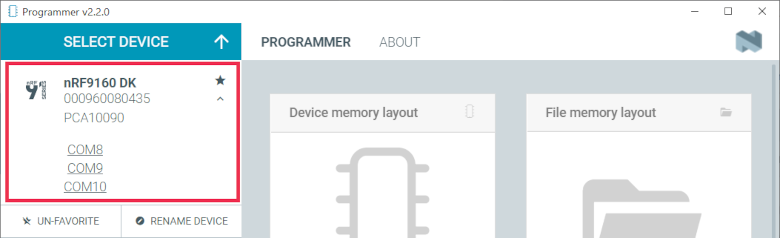
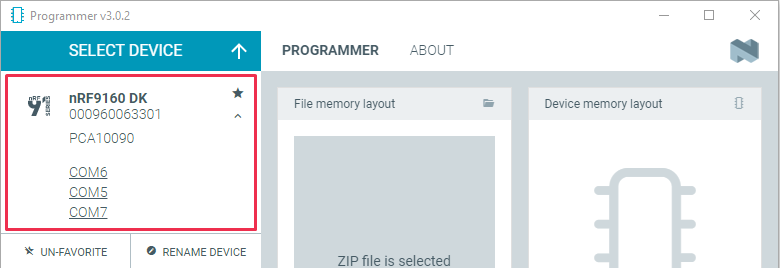
doc: update modem firmware before application firmware for nRF9160 DK
Updating modem firmware erases application firmware, so it is
better to have the instructions for updating modem firmware
before the instructions for updating application firmware.

Also updated Programmer screenshots to latest version of Programmer.

diff --git a/doc/nrf/ug_nrf9160_gs.rst b/doc/nrf/ug_nrf9160_gs.rst
@@ -8,7 +8,7 @@ Getting started with nRF9160 DK
    :depth: 2
 
 This section will get you started with your nRF9160 DK.
-You will update the firmware (both the application firmware and the modem firmware) and the nRF Cloud certificates of the DK, and conduct some initial tests.
+You will update the firmware (both the modem firmware and the application firmware) and the nRF Cloud certificates of the DK, and conduct some initial tests.
 
 If you have already set up your nRF9160 DK and want to learn more, see the following documentation:
 
@@ -76,59 +76,6 @@ Modem firmware
   The zip is named :file:`mfwnrf9160_` followed by the firmware version number.
   Do not unzip this file.
 
-.. _nrf9160_gs_updating_fw_application:
-
-Updating the application firmware
-=================================
-
-To update the application firmware, complete the following steps.
-If you experience any problems during the process, restart the Programmer app by pressing ``Ctrl+R`` (``command+R`` in macOS), and try again.
-
-1. Open the Programmer app.
-#. Make sure the **PROG/DEBUG SW10** switch on the nRF9160 DK is set to **nRF91**.
-   On DK v0.9.0 and earlier, this is the **SW5** switch.
-#. Connect the nRF9160 DK to the computer with a micro-USB cable, and then turn the DK on.
-#. Click :guilabel:`Select device` and select the DK from the drop-down list.
-   You can identify the nRF9160 DK by the fact that it has three COM ports when you expand its entry.
-
-   .. figure:: /images/programmer_com_ports.png
-      :alt: Programmer - COM ports
-
-      Programmer - COM ports
-
-   If the three COM ports are not visible, press ``Ctrl+R`` in Windows or ``command+R`` in macOS to restart the Programmer application.
-
-   The button text changes to the type of the selected device, with the SEGGER ID below the name.
-   The :guilabel:`Device Memory Layout` section also changes its name to the device name, and indicates that the device is connected.
-   If the :guilabel:`Auto read memory` option is selected in the :guilabel:`Device` section, the memory layout will update.
-   If it is not selected and you wish to see the memory layout, click :guilabel:`Read` in the :guilabel:`Device` section.
-
-#. Click :guilabel:`Add file` in the :guilabel:`File` section, and select :guilabel:`Browse`.
-
-   .. figure:: /images/programmer_addfile_nrf9160dk.png
-      :alt: Programmer - Add file
-
-      Programmer - Add file
-
-#. Navigate to where you extracted the firmware, and then to the :file:`img_app_bl` folder there.
-#. Select either :file:`nrf9160dk_asset_tracker_v2_ltem_<version-number>.hex` (LTE-M mode) or :file:`nrf9160dk_asset_tracker_v2_nbiot_<version-number>.hex` (NB-IoT mode), depending on where you are located.
-   Check with your SIM card provider for the mode supported at your location.
-   If you are using the iBasis SIM card provided with the DK, you can see `iBasis IoT network coverage`_ .
-   You can use either mode if your location has support for both.
-
-   For NB-IoT, there is a second variant of the firmware in the :file:`nrf9160dk_asset_tracker_v2_nbiot_legacy_pco_<version-number>.hex` file.
-   Only use this legacy variant if your network does not support ePCO.
-
-#. Click the :guilabel:`Erase & write` button in the :guilabel:`Device` section to program the DK.
-   Do not unplug or turn off the DK during this process.
-
-   .. figure:: /images/programmer_erasewrite_nrf9160dk.png
-      :alt: Programmer - Erase & write
-
-      Programmer - Erase & write
-
-If you continue to updating the modem firmware, you can go directly to Step 5.
-
 .. _nrf9160_gs_updating_fw_modem:
 
 Updating the modem firmware
@@ -136,6 +83,10 @@ Updating the modem firmware
 
 To update the modem firmware, complete the following steps.
 If you experience any problems during the process, restart the Programmer app by pressing ``Ctrl+R`` (``command+R`` on macOS), and try again.
+
+.. note::
+
+   Updating the modem firmware erases the contents of the flash memory, so the application must be programmed again to the nRF9160 DK.
 
 1. Open the Programmer app.
 #. Make sure the **PROG/DEBUG SW10** switch on the nRF9160 DK is set to **nRF91**.
@@ -182,12 +133,62 @@ If you experience any problems during the process, restart the Programmer app by
    Do not unplug or turn off the device during this process.
 
 When the update is complete, you see a success message.
+If you update the application firmware now, you can go directly to Step 5 of :ref:`nrf9160_gs_updating_fw_application`.
 
 .. note::
 
    If you experience problems updating the modem firmware, click :guilabel:`Erase all` in the :guilabel:`Device` section of the side panel and try updating again.
 
-   Doing this erases the contents of the flash memory, so the application must be programmed again to the DK.
+.. _nrf9160_gs_updating_fw_application:
+
+Updating the application firmware
+=================================
+
+To update the application firmware, complete the following steps.
+If you experience any problems during the process, restart the Programmer app by pressing ``Ctrl+R`` (``command+R`` in macOS), and try again.
+
+1. Open the Programmer app.
+#. Make sure the **PROG/DEBUG SW10** switch on the nRF9160 DK is set to **nRF91**.
+   On DK v0.9.0 and earlier, this is the **SW5** switch.
+#. Connect the nRF9160 DK to the computer with a micro-USB cable, and then turn the DK on.
+#. Click :guilabel:`Select device` and select the DK from the drop-down list.
+   You can identify the nRF9160 DK by the fact that it has three COM ports when you expand its entry.
+
+   .. figure:: /images/programmer_com_ports.png
+      :alt: Programmer - COM ports
+
+      Programmer - COM ports
+
+   If the three COM ports are not visible, press ``Ctrl+R`` in Windows or ``command+R`` in macOS to restart the Programmer application.
+
+   The drop-down text changes to the type of the selected device, with its SEGGER ID below the name.
+   The :guilabel:`Device Memory Layout` section also changes its name to the device name, and indicates that the device is connected.
+   If the :guilabel:`Auto read memory` option is selected in the :guilabel:`Device` section, the memory layout will update.
+   If it is not selected and you wish to see the memory layout, click :guilabel:`Read` in the :guilabel:`Device` section.
+
+#. Click :guilabel:`Add file` in the :guilabel:`File` section, and select :guilabel:`Browse`.
+
+   .. figure:: /images/programmer_addfile_nrf9160dk.png
+      :alt: Programmer - Add file
+
+      Programmer - Add file
+
+#. Navigate to where you extracted the firmware, and then to the :file:`img_app_bl` folder there.
+#. Select either :file:`nrf9160dk_asset_tracker_v2_ltem_<version-number>.hex` (LTE-M mode) or :file:`nrf9160dk_asset_tracker_v2_nbiot_<version-number>.hex` (NB-IoT mode), depending on where you are located.
+   Check with your SIM card provider for the mode supported at your location.
+   If you are using the iBasis SIM card provided with the DK, you can see `iBasis IoT network coverage`_ .
+   You can use either mode if your location has support for both.
+
+   For NB-IoT, there is a second variant of the firmware in the :file:`nrf9160dk_asset_tracker_v2_nbiot_legacy_pco_<version-number>.hex` file.
+   Only use this legacy variant if your network does not support ePCO.
+
+#. Click the :guilabel:`Erase & write` button in the :guilabel:`Device` section to program the DK.
+   Do not unplug or turn off the DK during this process.
+
+   .. figure:: /images/programmer_erasewrite_nrf9160dk.png
+      :alt: Programmer - Erase & write
+
+      Programmer - Erase & write
 
 .. _nrf9160_gs_connecting_dk_to_cloud:
 

diff --git a/doc/nrf/releases/release-notes-changelog.rst b/doc/nrf/releases/release-notes-changelog.rst
@@ -386,16 +386,17 @@ Documentation
 
 * Added:
 
-* Added documentation page for the :ref:`lib_flash_map_pm` library.
-* :ref:`ug_thread_prebuilt_libs` as a separate page instead of being part of :ref:`ug_thread_configuring`.
+  * Added documentation page for the :ref:`lib_flash_map_pm` library.
+  * :ref:`ug_thread_prebuilt_libs` as a separate page instead of being part of :ref:`ug_thread_configuring`.
 
 * Updated:
 
-* :ref:`ug_thread_configuring` to better indicate what is required and what is optional.
-  Also added further clarifications to the page to make everything more clear.
+  * :ref:`ug_thread_configuring` to better indicate what is required and what is optional.
+    Also added further clarifications to the page to make everything more clear.
+  * :ref:`ug_nrf9160_gs` by moving :ref:`nrf9160_gs_updating_fw_modem` before :ref:`nrf9160_gs_updating_fw_application` because updating modem firmware erases application firmware.
 
 * Removed:
 
-* |no_changes_yet_note|
+  * |no_changes_yet_note|
 
 .. |no_changes_yet_note| replace:: No changes since the latest |NCS| release.
